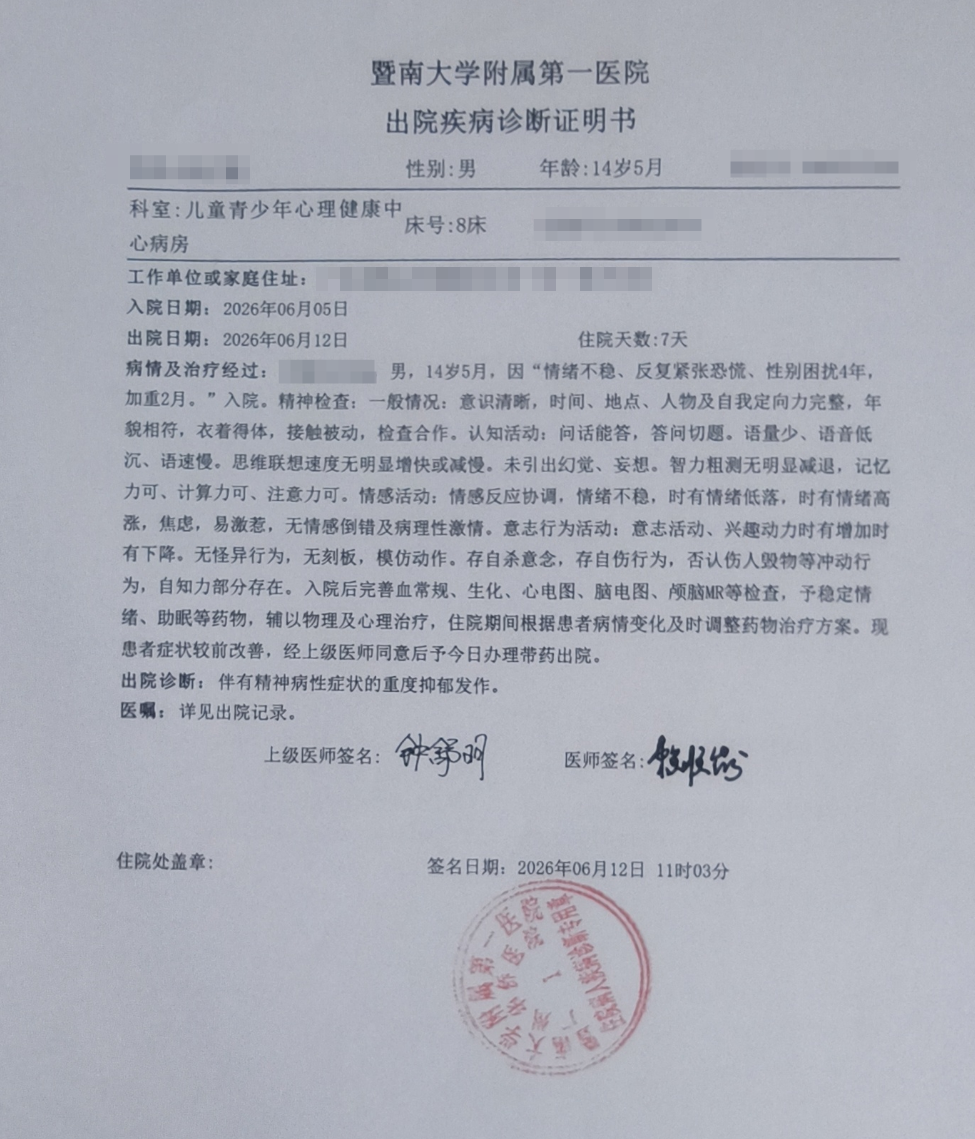
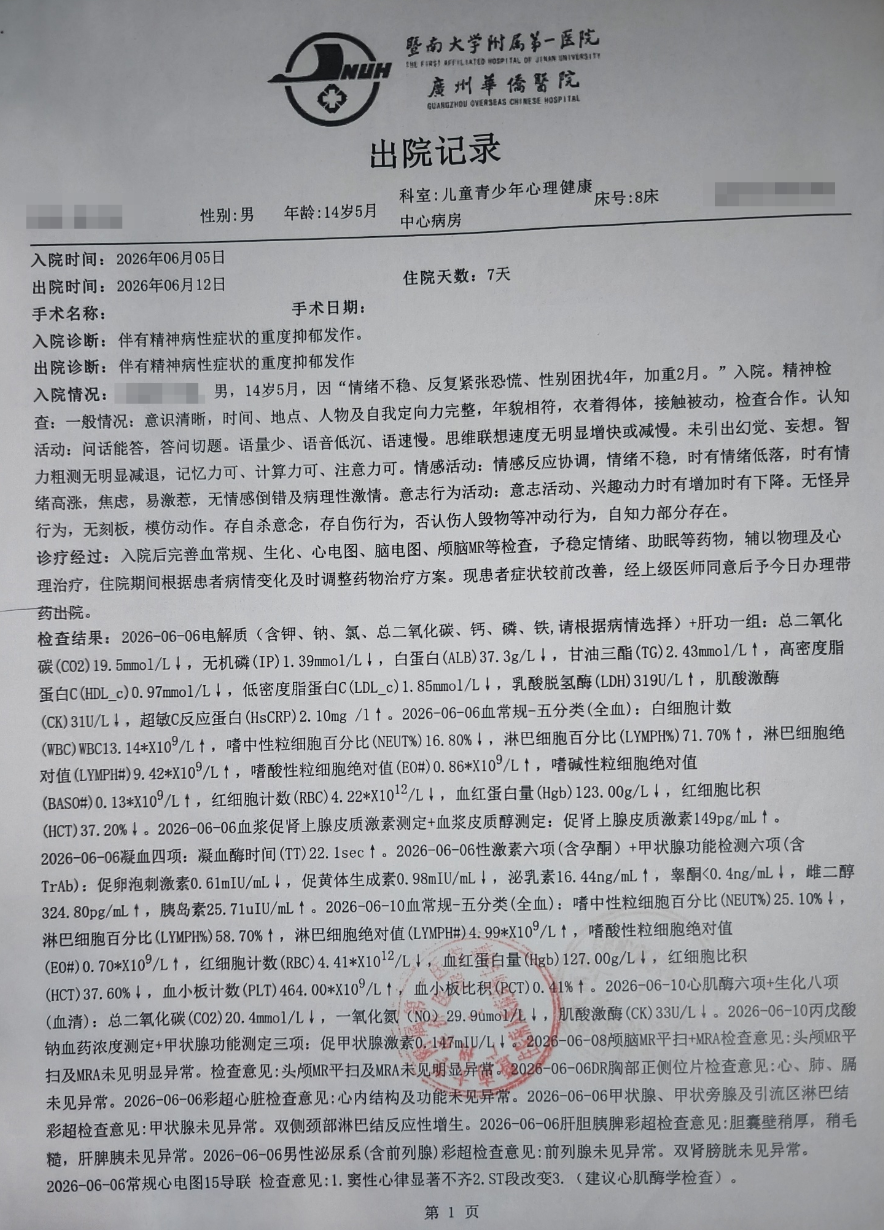
docs(psyco/jia-yanbin): 住院材料样式改用 gallery 短代码
- 将住院材料样式由逐张 watermark 改为 gallery 短代码，图片统一重命名为
  record-discharge1~4 系列（原 record-fee.webp 一并纳入该系列）
- 小节标题补充说明四张图片的类型
- 小节标题括号改用全角，与页面既有标题写法保持一致

四张图片比例不一（0.72~0.89），gallery 为横向滚动排布，不强制统一尺寸。

diff --git a/content/zh-cn/docs/psyco/guangdong/jia-yanbin/index.md b/content/zh-cn/docs/psyco/guangdong/jia-yanbin/index.md
@@ -203,20 +203,6 @@ title: 广州｜贾艳滨
 
 {{< watermark "proof2.jpg" >}}
 
-## 住院材料样式
+## 住院材料样式（住院费用明细／出院记录／出院疾病诊断证明书／出院证明）
 
-### 住院费用明细
-
-{{< watermark "record-fee.webp" >}}
-
-### 出院记录
-
-{{< watermark "record-discharge1.png" >}}
-
-### 出院疾病诊断证明书
-
-{{< watermark "record-discharge2.png" >}}
-
-### 出院证明
-
-{{< watermark "record-discharge3.png" >}}
+{{< gallery pattern="record-discharge*" >}}
